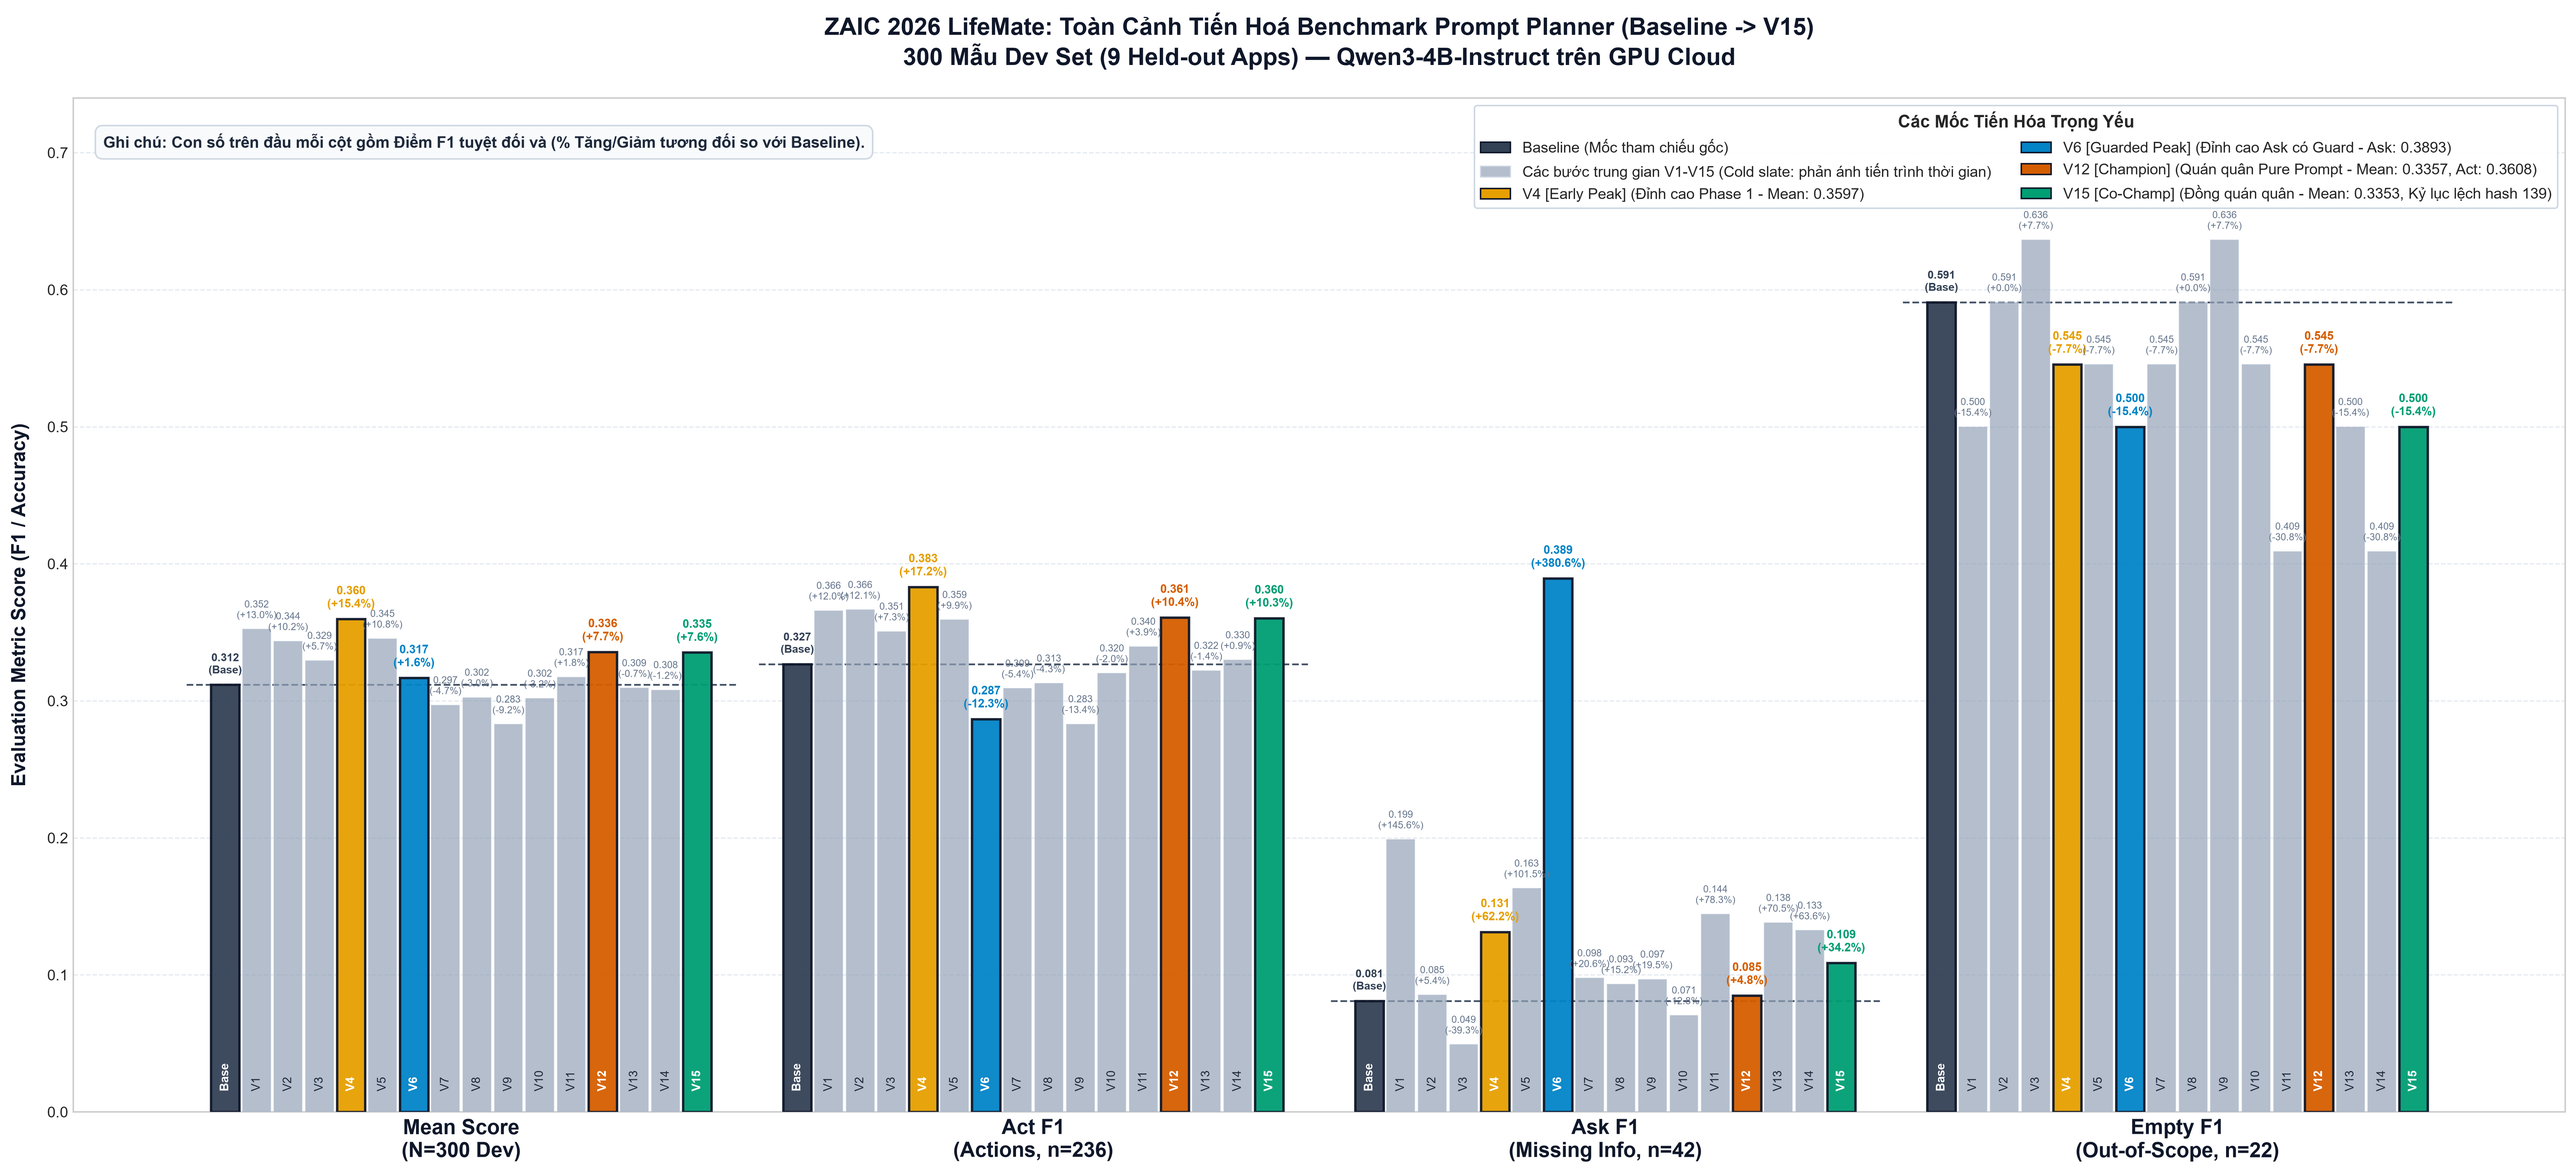
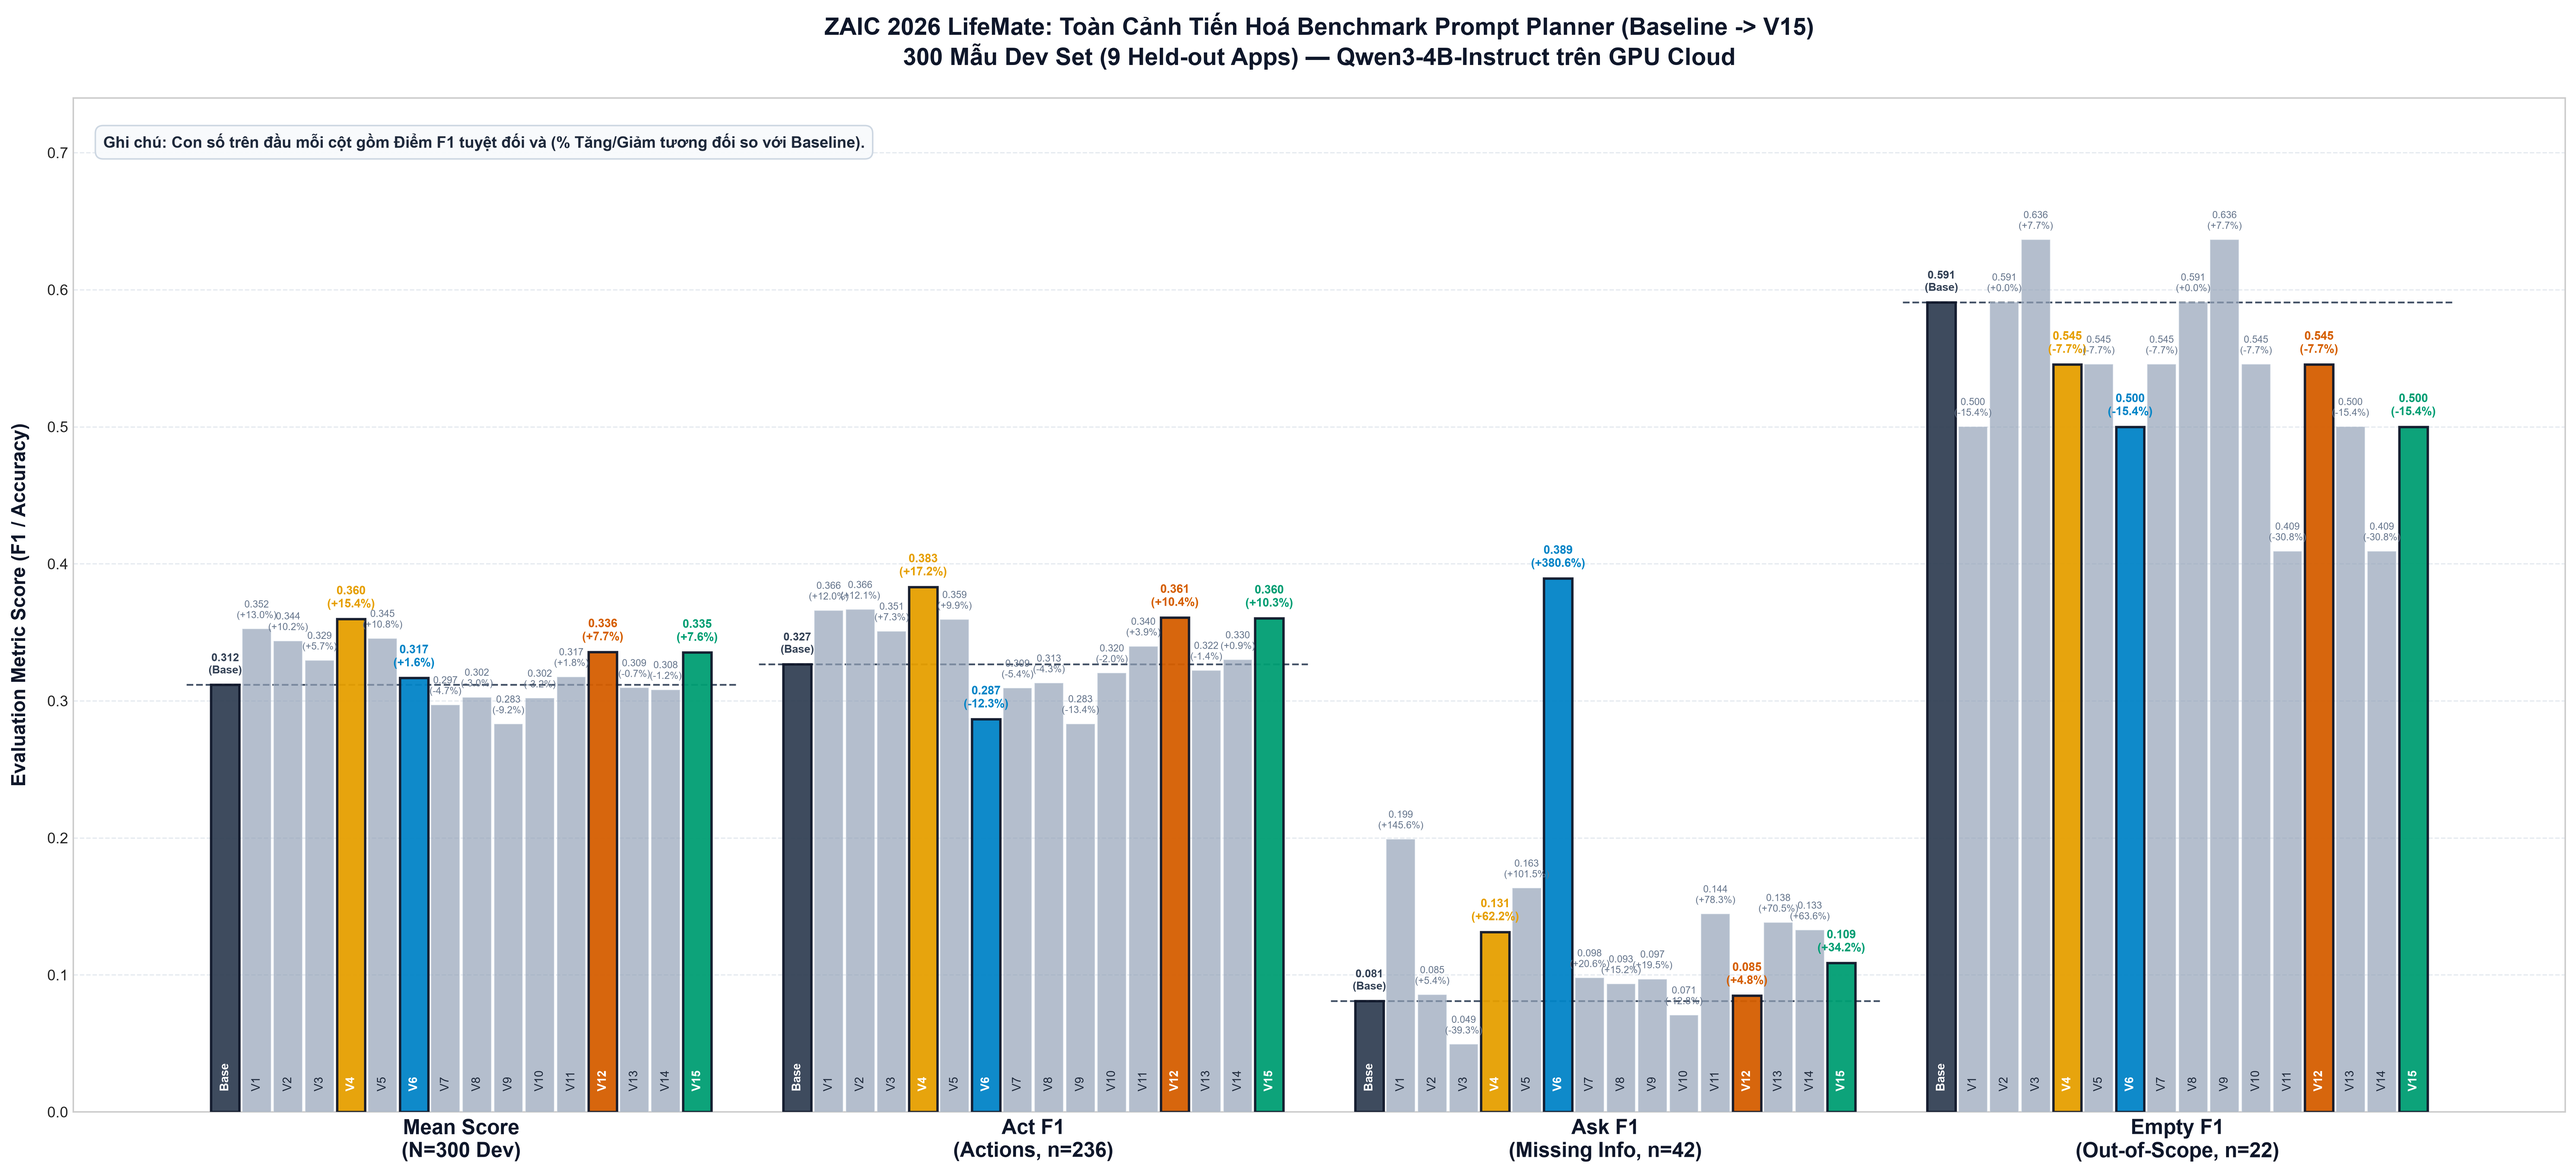
style(gepa): remove milestone legend from evolution plot as requested

Changed region(s): [[0.7498, 0.0936, 0.9997, 0.1872], [0.5623, 0.1248, 0.7498, 0.1872]]

diff --git a/optimize/gepa/vuong/plot_evolution.py b/optimize/gepa/vuong/plot_evolution.py
@@ -145,28 +145,7 @@ ax.set_ylim(0, 0.74)
 ax.yaxis.grid(True, linestyle="--", alpha=0.5, color="#cbd5e1", zorder=1)
 ax.xaxis.grid(False)
 
-# Concise Legend: only meaningful milestones + cold timeline bar
-legend_elements = [
-    mpatches.Patch(facecolor="#334155", edgecolor="#0f172a", label="Baseline (Mốc tham chiếu gốc)"),
-    mpatches.Patch(facecolor=COLD_COLOR, edgecolor="#cbd5e1", alpha=0.7, label="Các bước trung gian V1-V15 (Cold slate: phản ánh tiến trình thời gian)"),
-    mpatches.Patch(facecolor="#e69f00", edgecolor="#0f172a", label="V4 [Early Peak] (Đỉnh cao Phase 1 - Mean: 0.3597)"),
-    mpatches.Patch(facecolor="#0284c7", edgecolor="#0f172a", label="V6 [Guarded Peak] (Đỉnh cao Ask có Guard - Ask: 0.3893)"),
-    mpatches.Patch(facecolor="#d55e00", edgecolor="#0f172a", label="V12 [Champion] (Quán quân Pure Prompt - Mean: 0.3357, Act: 0.3608)"),
-    mpatches.Patch(facecolor="#009e73", edgecolor="#0f172a", label="V15 [Co-Champ] (Đồng quán quân - Mean: 0.3353, Kỷ lục lệch hash 139)")
-]
 
-legend = ax.legend(
-    handles=legend_elements,
-    title="Các Mốc Tiến Hóa Trọng Yếu",
-    title_fontsize=11.5,
-    fontsize=10,
-    loc="upper right",
-    frameon=True,
-    framealpha=0.95,
-    edgecolor="#cbd5e1",
-    ncol=2
-)
-legend.get_title().set_fontweight("bold")
 
 # Strict user requirement: The note box "Ghi chu" ONLY keeps the explanation for the number above the bar
 info_text = "Ghi chú: Con số trên đầu mỗi cột gồm Điểm F1 tuyệt đối và (% Tăng/Giảm tương đối so với Baseline)."
